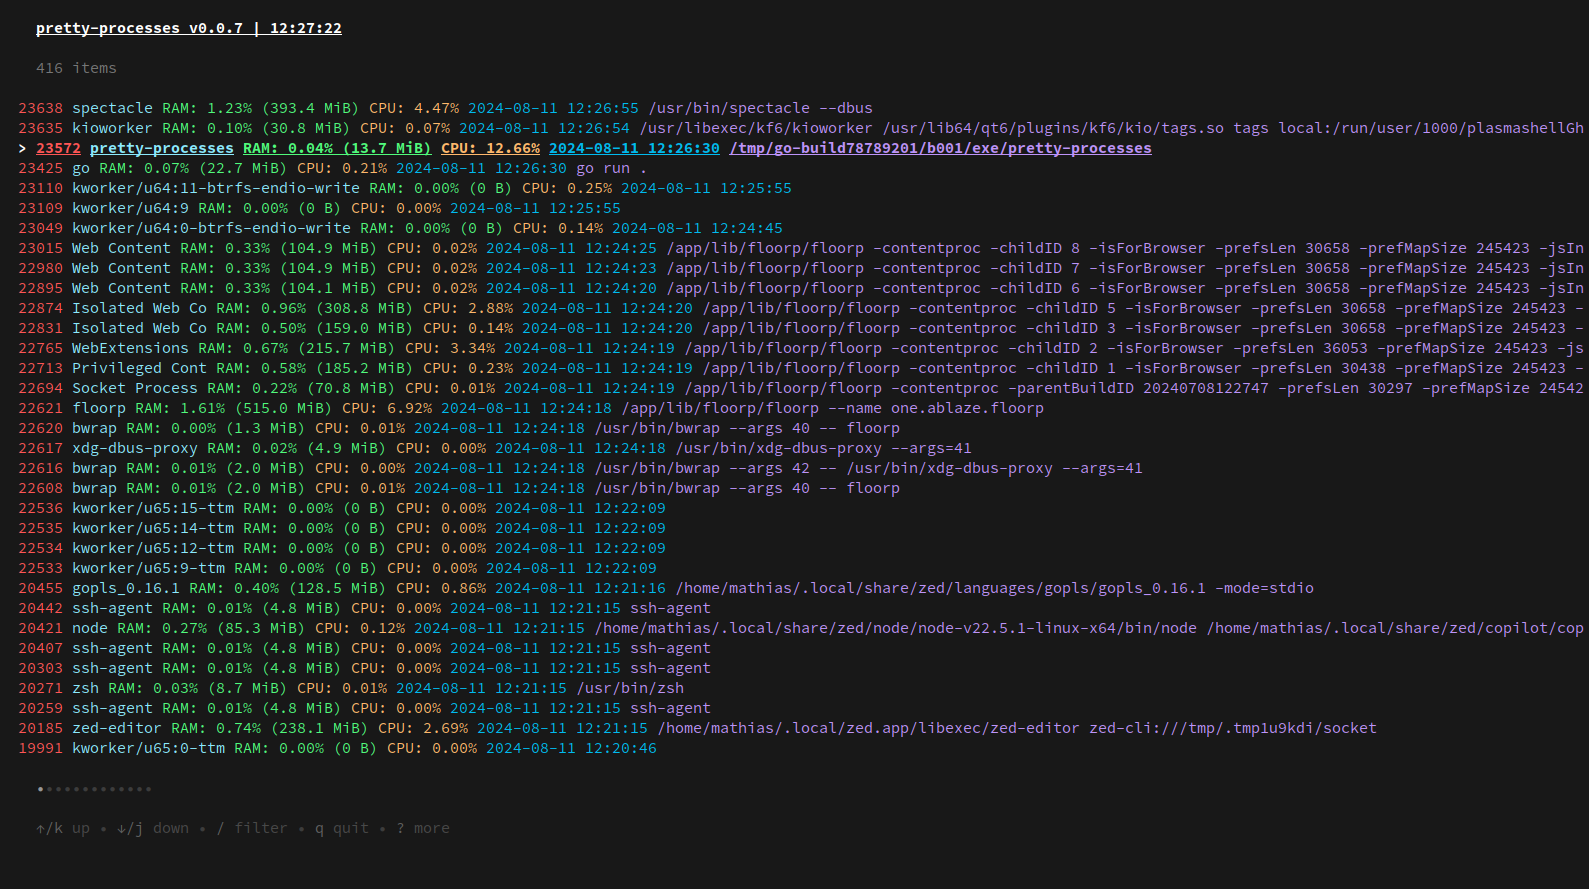
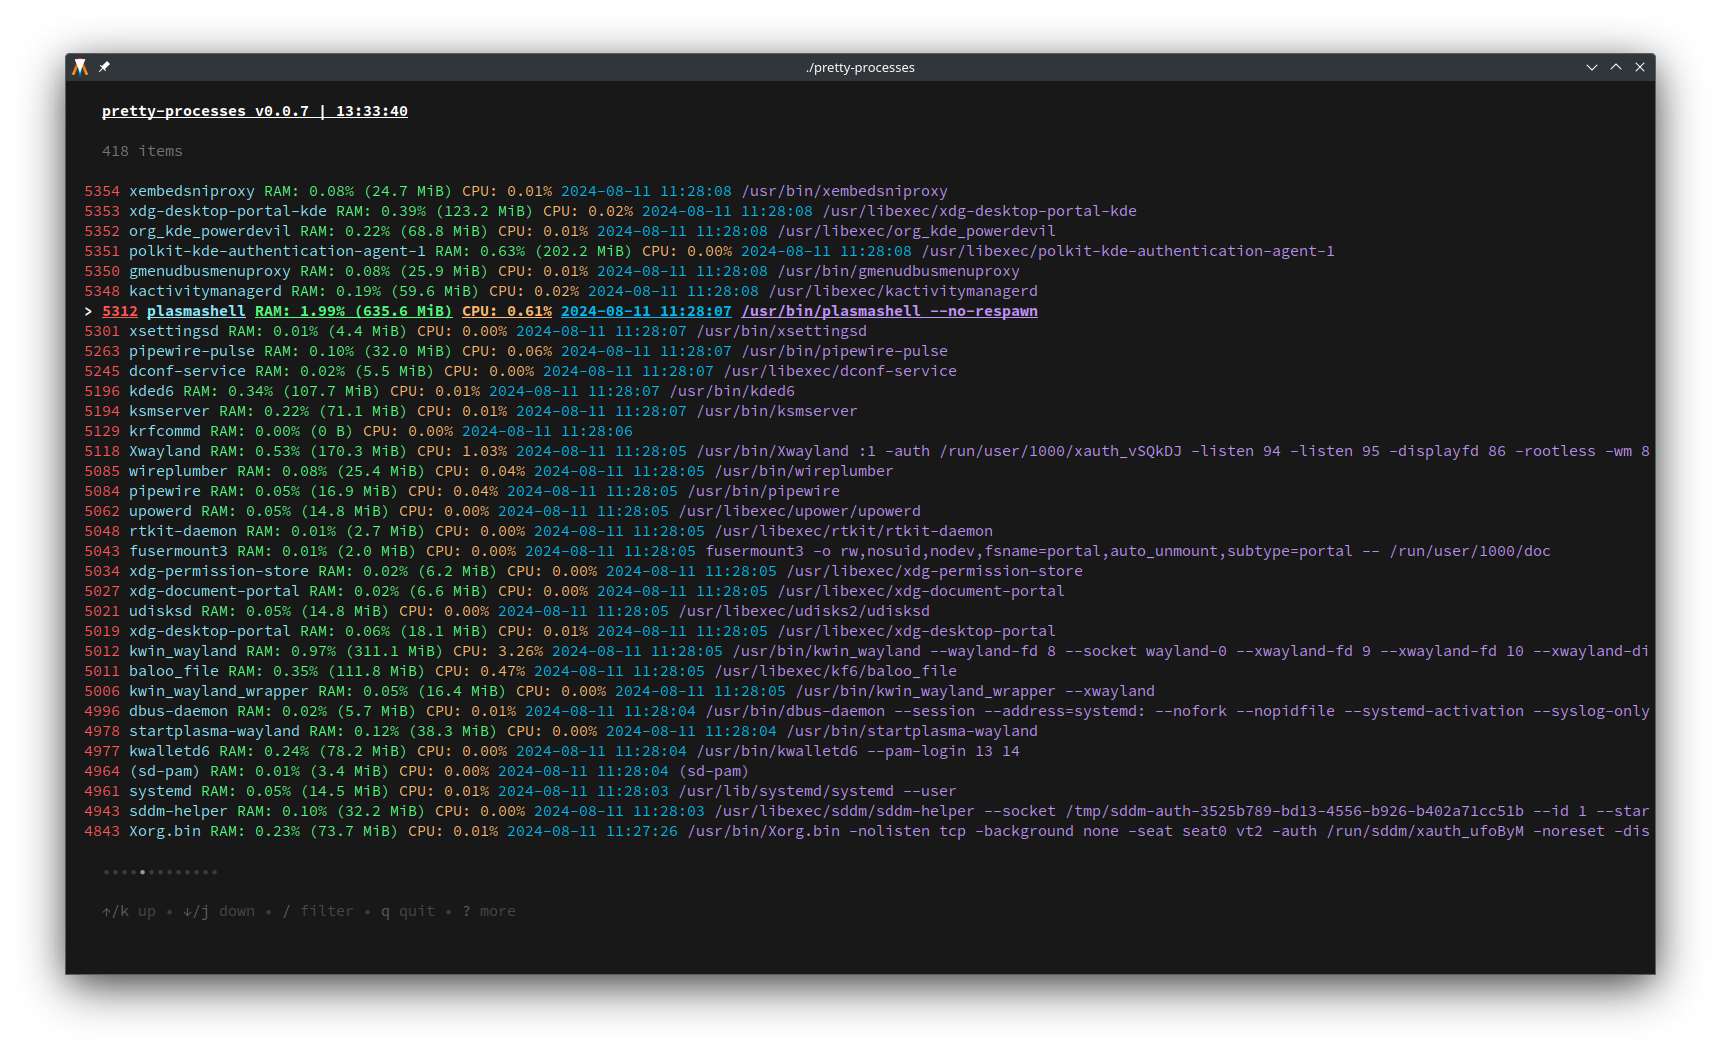
Updated screenshot, README and comments

diff --git a/view.go b/view.go
@@ -49,7 +49,7 @@ func (d itemDelegate) Render(w io.Writer, m list.Model, index int, i list.Item) 
 		return
 	}
 
-	// Apply styles to different data types
+	// Apply styles
 	pid := fmt.Sprintf("%d", it.pid)
 	name := it.name
 	ram := fmt.Sprintf("RAM: %.2f%% (%s)", it.ram, formatBytes(it.ramAmount))
@@ -78,7 +78,7 @@ func (d itemDelegate) Render(w io.Writer, m list.Model, index int, i list.Item) 
 			cmdlineStyle.Render(cmdline))
 	}
 
-	fmt.Fprint(w, styledLine) // Use Fprint instead of Fprintln to avoid adding newlines
+	fmt.Fprint(w, styledLine)
 }
 
 func getTitleHeight() int {
@@ -118,7 +118,8 @@ func (m model) Update(msg tea.Msg) (tea.Model, tea.Cmd) {
 		filter := m.list.FilterInput.Value()
 		newItems := getProcesses()
 
-		// Preserve filtering when refreshing items
+		// Temporarily disable update of list's items when there is a filter.
+		// The issue is that when an update occurs, all the selected processes from the filter disappear until the filtering is cancelled.
 		if filter == "" {
 			m.list.SetItems(newItems)
 		}
@@ -138,8 +139,6 @@ func (m model) View() string {
 		return "Bye!\n"
 	}
 
-	// Render title at the top
-	//titleView := titleStyle.Render(m.list.Title)
 	m.list.Styles.Title = titleStyle
 	listView := appStyle.Render(m.list.View())
 

diff --git a/help.go b/help.go
@@ -18,23 +18,24 @@ var customKeys = keyMap{
 	),
 }
 
-// ShortHelp returns keybindings for the minimal help view.
 func (k keyMap) GetCustomShortHelpCommands() []key.Binding {
 	return []key.Binding{
-		k.Kill, k.Sort,
+		//k.Kill, k.Sort,
 	}
 }
 
 func (k keyMap) GetCustomFullHelpCommands() []key.Binding {
 	return []key.Binding{
-		k.Kill, k.Sort,
+		//k.Kill, k.Sort,
 	}
 }
 
+//Here because Bubble Tea requires it
 func (k keyMap) FullHelp() [][]key.Binding {
 	return nil
 }
 
+//Here because Bubble Tea requires it
 func (k keyMap) ShortHelp() []key.Binding {
 	return nil
 }

diff --git a/process.go b/process.go
@@ -25,7 +25,7 @@ type processItem struct {
 // FilterValue returns the filterable string value for the list processItem.
 func (i processItem) FilterValue() string { return strconv.Itoa(int(i.pid)) + i.name }
 
-// getProcesses retrieves and returns a list of current processes.
+// getProcesses retrieves and returns a list of current processes with some data.
 func getProcesses() []list.Item {
 	ctx := context.Background()
 	processes, err := process.Processes()

diff --git a/main.go b/main.go
@@ -37,7 +37,6 @@ func main() {
 	}
 }
 
-// getTitle returns the current time formatted as a string.
 func getTitle() string {
 	return fmt.Sprintf("pretty-processes v0.0.7 | %s", time.Now().Format("15:04:05"))
 }

diff --git a/README.md b/README.md
@@ -6,11 +6,15 @@
   - Listing of processes
   - Displaying of informations (PID, Name, MEM %/Used, CPU %, Creation date, Command)
   - Filtering by pid or name
+  - Updates at interval
+  - Help menu
 
 ### Not available yet :
   - Killing a selected process
   - Sorting
   - Filtering by a choosen parameter
+  - ... Any other idea
 
+Note : Right now, the list isn't updated when there is a filter, it will be fixed later.
 
 ![pretty-processes screenshot](./pretty-processes.png)
